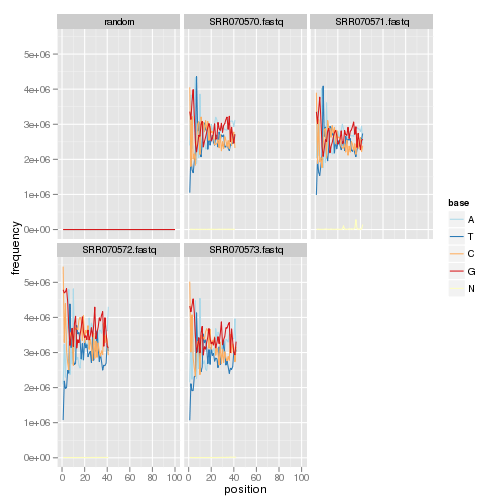
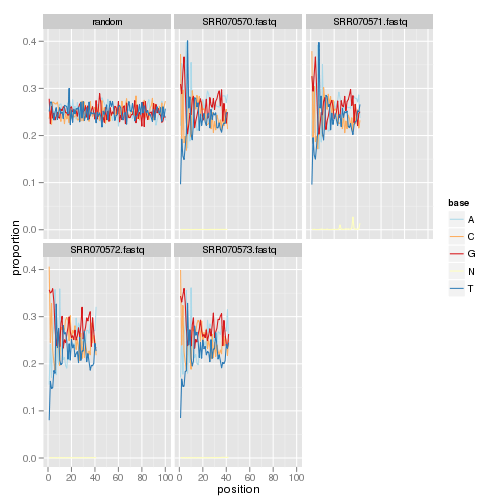
added length fig

diff --git a/raw-read-qa.md b/raw-read-qa.md
@@ -15,7 +15,7 @@ before/after quality improvement software diagnostics.
 
 
 ```r
-opts_chunk$set(fig.width = 7, fig.height = 7, cache = FALSE)
+opts_chunk$set(fig.width = 7, fig.height = 7, cache = TRUE)
 opts_knit$set(base.url = "https://github.com/vsbuffalo/rna-seq-example/raw/master/")
 ```
 
@@ -56,6 +56,11 @@ raw.fastq.summaries[["random"]] <- readSeqFile(system.file("extdata",
     "random.fasta", package = "qrqc"), type = "fasta", hash.prop = 1)
 ```
 
+```
+## Warning: Some k-mer counts are infinite, meaning there was occurence of a
+## k-mer over the maximum double size.
+```
+
 
 
 
@@ -81,7 +86,7 @@ qualPlot(raw.fastq.summaries)
 
 ```r
 
-basePlot(raw.fastq.summaries)
+basePlot(raw.fastq.summaries, type = "proportion")
 ```
 
 ![plot of chunk raw-base-frequency](https://github.com/vsbuffalo/rna-seq-example/raw/master/figure/raw-base-frequency.png) 
@@ -97,22 +102,10 @@ kmerKLPlot(raw.fastq.summaries)
 ```
 
 ```
-## Warning: Stacking not well defined when ymin != 0
+## Error: replacement has 1 rows, data has 0
 ```
 
-```
-## Warning: Stacking not well defined when ymin != 0
-```
 
-```
-## Warning: Stacking not well defined when ymin != 0
-```
-
-```
-## Warning: Stacking not well defined when ymin != 0
-```
-
-![plot of chunk raw-kmer-kl](https://github.com/vsbuffalo/rna-seq-example/raw/master/figure/raw-kmer-kl.png) 
 
 
 ### Entropy Contaminant Plots
@@ -269,7 +262,7 @@ qualPlot(processed.fastq.summaries)
 
 ```r
 
-basePlot(processed.fastq.summaries)
+basePlot(processed.fastq.summaries, type = "proportion")
 ```
 
 ![plot of chunk processed-base-frequency](https://github.com/vsbuffalo/rna-seq-example/raw/master/figure/processed-base-frequency.png) 
@@ -313,5 +306,18 @@ kmerEntropyPlot(processed.fastq.summaries)
 ```
 
 ![plot of chunk processed-entropy](https://github.com/vsbuffalo/rna-seq-example/raw/master/figure/processed-entropy.png) 
+
+
+
+### Sequence Length Plot
+
+
+
+```r
+
+seqlenPlot(processed.fastq.summaries)
+```
+
+![plot of chunk processed-length](https://github.com/vsbuffalo/rna-seq-example/raw/master/figure/processed-length.png) 
 
 
